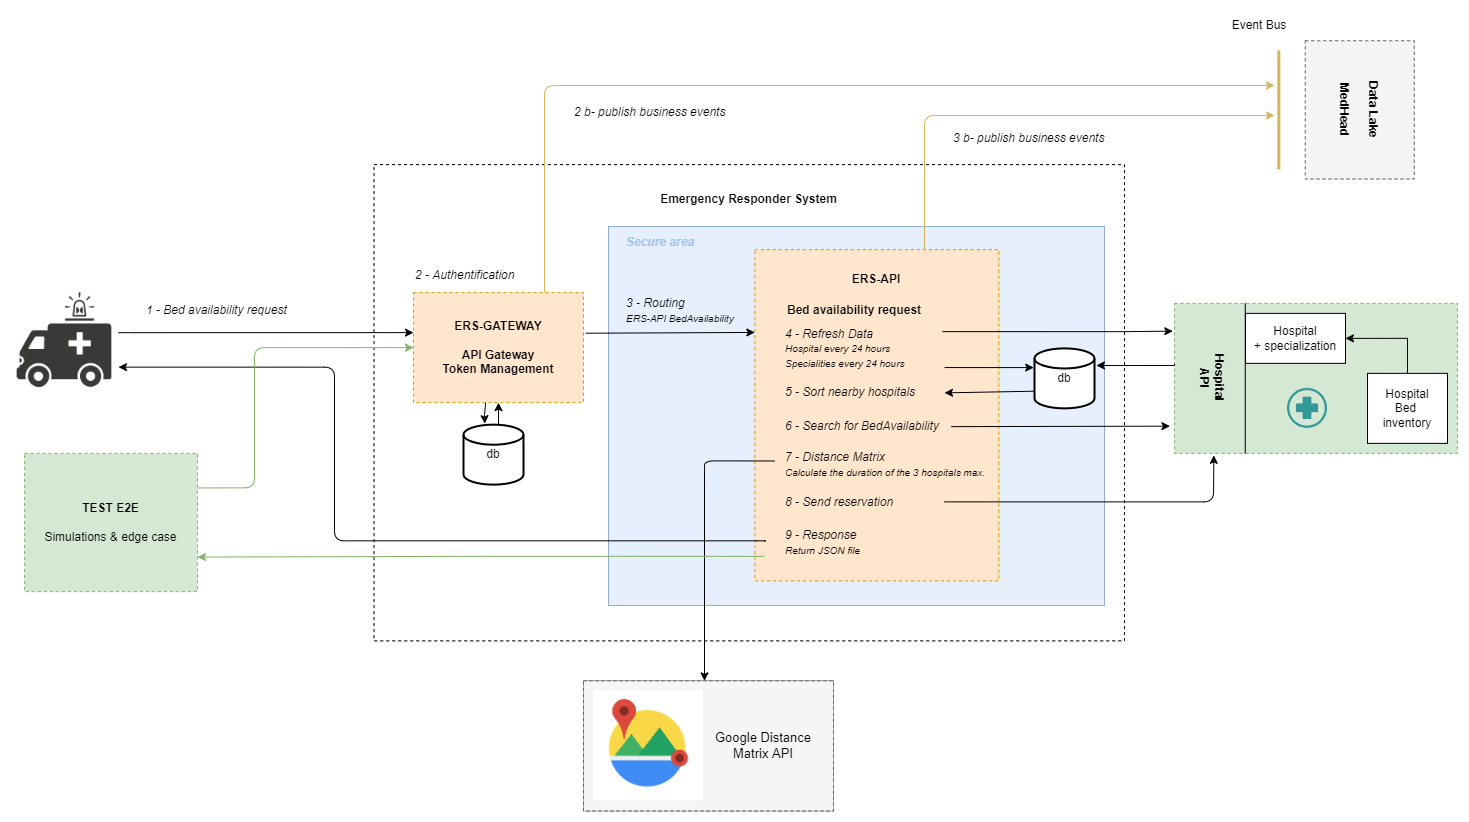
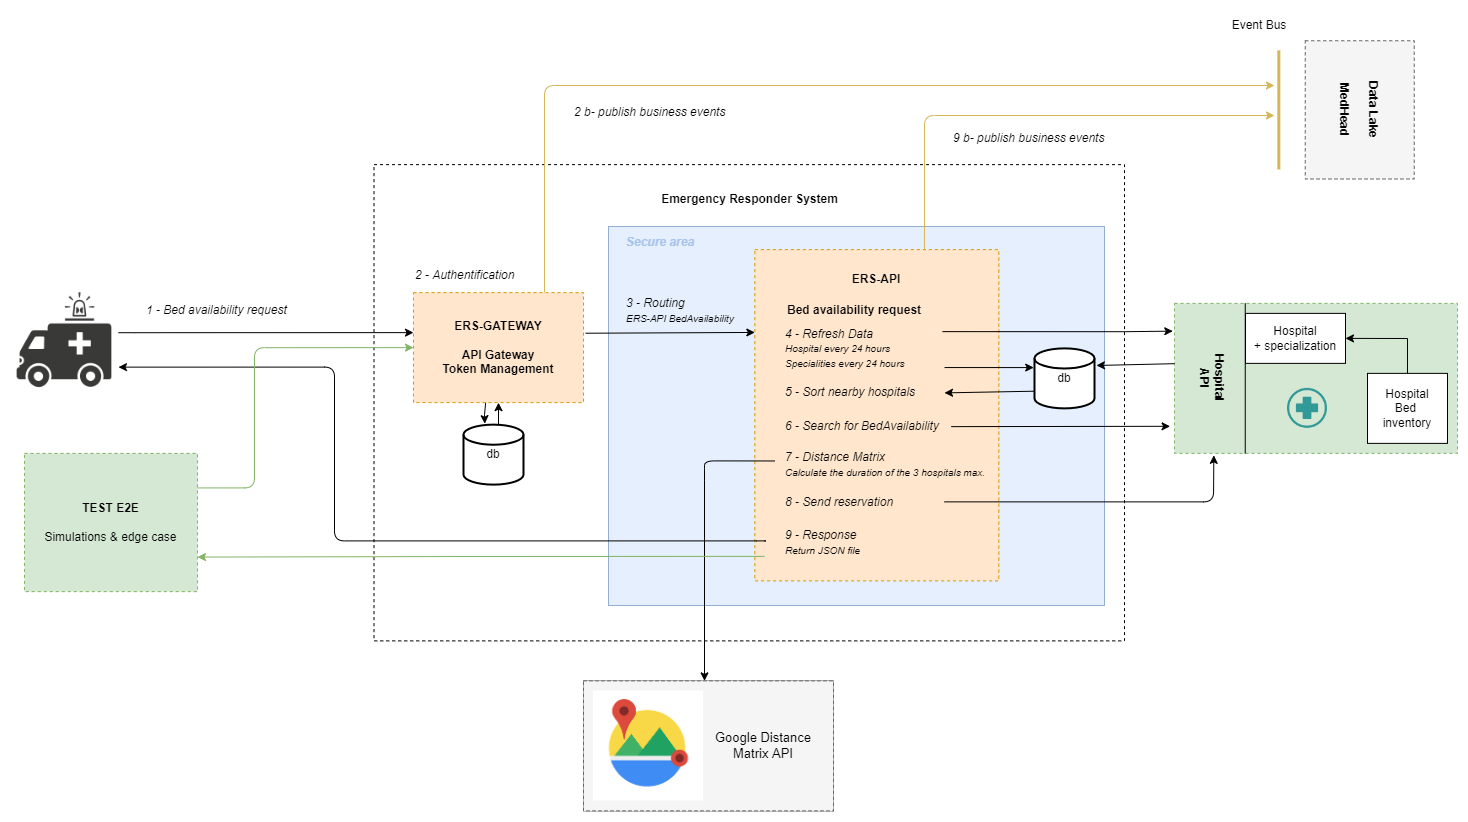
doc

diff --git a/README.md b/README.md
@@ -9,7 +9,7 @@ La plateforme MedHead est détenue conjointement et développée par un consorti
 
 ## [Architecture métier](./docs/Architecture_metier.md)
 
-[![Architecture métier](./docs/images/Architecture_metier.png)](./docs/Architecture_metier.md)
+[![Architecture métier](./docs/images/Architecture_metier_simple.png)](./docs/Architecture_metier.md)
 
 
 ## [Environnement Docker](./docs/Docker_Environnement.md)
@@ -20,5 +20,23 @@ La plateforme MedHead est détenue conjointement et développée par un consorti
 ## [Pipeline CI/CD & AWS Architecture](./docs/AWS_Architecture.md)
 
 [![Architecture AWS](./docs/images/AWS_Architecture.png)](./docs/AWS_Architecture.md)
+
+
+Architecture métier
+● Architecture des données et de l'information
+● Architecture de la sécurité
+● Architecture technologique
+PLAN DE RECOUVREMENT
+
+
+
+Bus d'événements et lac de données Tous les services devront publier les
+principaux événements métier sur un bus d'événements commun, ce qui
+entraînera également l’agrégation des événements dans un lac de
+données à accès optimisé. Le lac de données est destiné à permettre aux
+applications de reconstruire les magasins de données en fonction de
+l'historique des applications. Le lac de données est destiné à assister les
+systèmes en temps réel (entre autres) afin qu’ils fournissent des
+comportements réactifs au changement.
 
 

diff --git a/docs/Architecture_metier.md b/docs/Architecture_metier.md
@@ -22,7 +22,7 @@ Par exemple, SUPPOSONS trois hôpitaux, comme suit :
 
 ## Mise en œuvre
 
-![Architecture métier](./images/Architecture_metier.png)
+![Architecture métier](./images/Architecture_metier_simple.png)
 
 1. Requête de demande de disponibilité de lit, selon :
     - latitude / longitude
@@ -39,6 +39,7 @@ https://medhead/api/v1/BedAvailability
 ```
 
 2. Authentification par token encapsulé dans le header
+2. b publication des événements métier
 3. Routage vers le microservice 
     - ERS-API :8081 /BedAvailability
 4. Raifraichir les données toutes les 24h pour les tables :
@@ -50,6 +51,7 @@ https://medhead/api/v1/BedAvailability
     - (3 est le nombre max d'hopitaux pour les étapes 6. et 7.)
 8. Envoyer la réservation de lit à l'API Hospital
 9. Répondre à l'utilisateur (JSON file) l'hopital choisi avec son temps de parcours et ses kilomètres.
+9. b publication des événements métier 
 
 ```
 {
